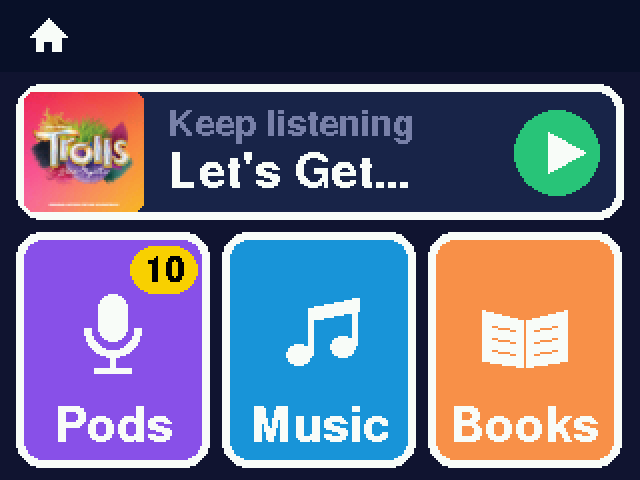
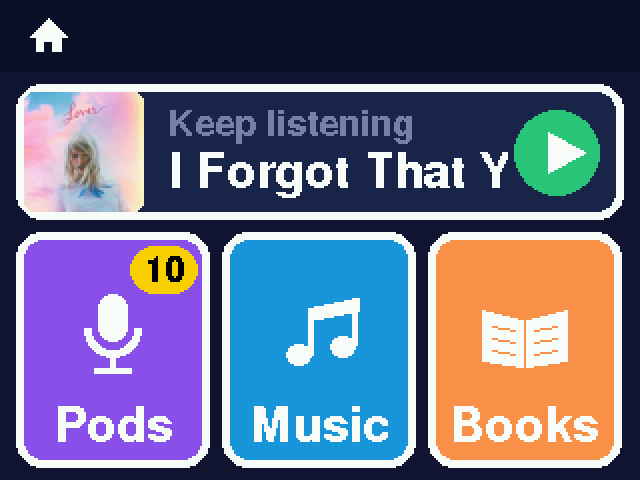
Now-playing button back off Home, flies up from Keep listening; marquee title

Changed region(s): [[0.0312, 0.1875, 0.25, 0.4688], [0.2812, 0.3125, 0.8125, 0.4375]]

diff --git a/README.md b/README.md
@@ -13,8 +13,8 @@ everything on it chosen by a grown-up.
 
 - **Home** (the middle touch button below the screen) shows the shelves side by side:
   Pods (podcasts, with a yellow badge counting the new episodes), Music and Books.
-  Above them, **Keep listening** has whatever was playing last: one tap carries on and
-  opens the player.
+  Above them, **Keep listening** has whatever was playing last (a long title scrolls):
+  one tap carries on and opens the player.
 - **Albums** are a carousel of covers: swipe left and right, round and round. The ones
   played most recently come first. Tap the middle one to open it.
 - **Songs** play when tapped; the list stays put. Tap the song that's playing for the
@@ -23,8 +23,10 @@ everything on it chosen by a grown-up.
   whole book, with a tick between chapters.
 - **The player** has quieter / previous / play / next / louder, and a bar to drag. Swipe
   for the next or previous track.
-- **The top bar** has back on the left and the shelf's name. (The now-playing button on
-  its right is switched off for now: `SHOW_NOW_PLAYING_BUTTON` in `tiny-tunes.ino`.)
+- **The top bar** has back on the left, the shelf's name, and on the right the
+  now-playing button: its bars bounce on green while something plays; tap it for the
+  player. Home doesn't have it (Keep listening does that job): leaving Home for a shelf,
+  the Keep listening cover flies up into the corner and becomes the button.
 - **Snackbars** at the bottom say when the battery is low, it's charging, or headphones
   connect. When headphones disconnect, the sound pauses rather than carrying on out
   loud.

diff --git a/CHANGELOG.md b/CHANGELOG.md
@@ -11,8 +11,10 @@ e.g. `0.3.0+6.cb61af8`.
   with its picture over its name, and new podcast episodes as a yellow number in the
   corner. With nothing loaded, they sit in the middle of the screen.
 - The Podcasts shelf is called "Pods", so the name fits its card.
-- The now-playing button in the top bar is hidden for now (Home's Keep listening card
-  and tapping the playing song still open the player), to see whether it's missed.
+- The now-playing button in the top bar isn't on Home any more (the Keep listening card
+  does that job). Leaving Home for a shelf, the card's cover shrinks up into the top
+  bar's corner and becomes the button.
+- Keep listening's title scrolls like a marquee when it's too long to fit.
 - The Home button does nothing on Home (it used to repaint the screen).
 
 ## 0.10.0 — 2026-10-26
